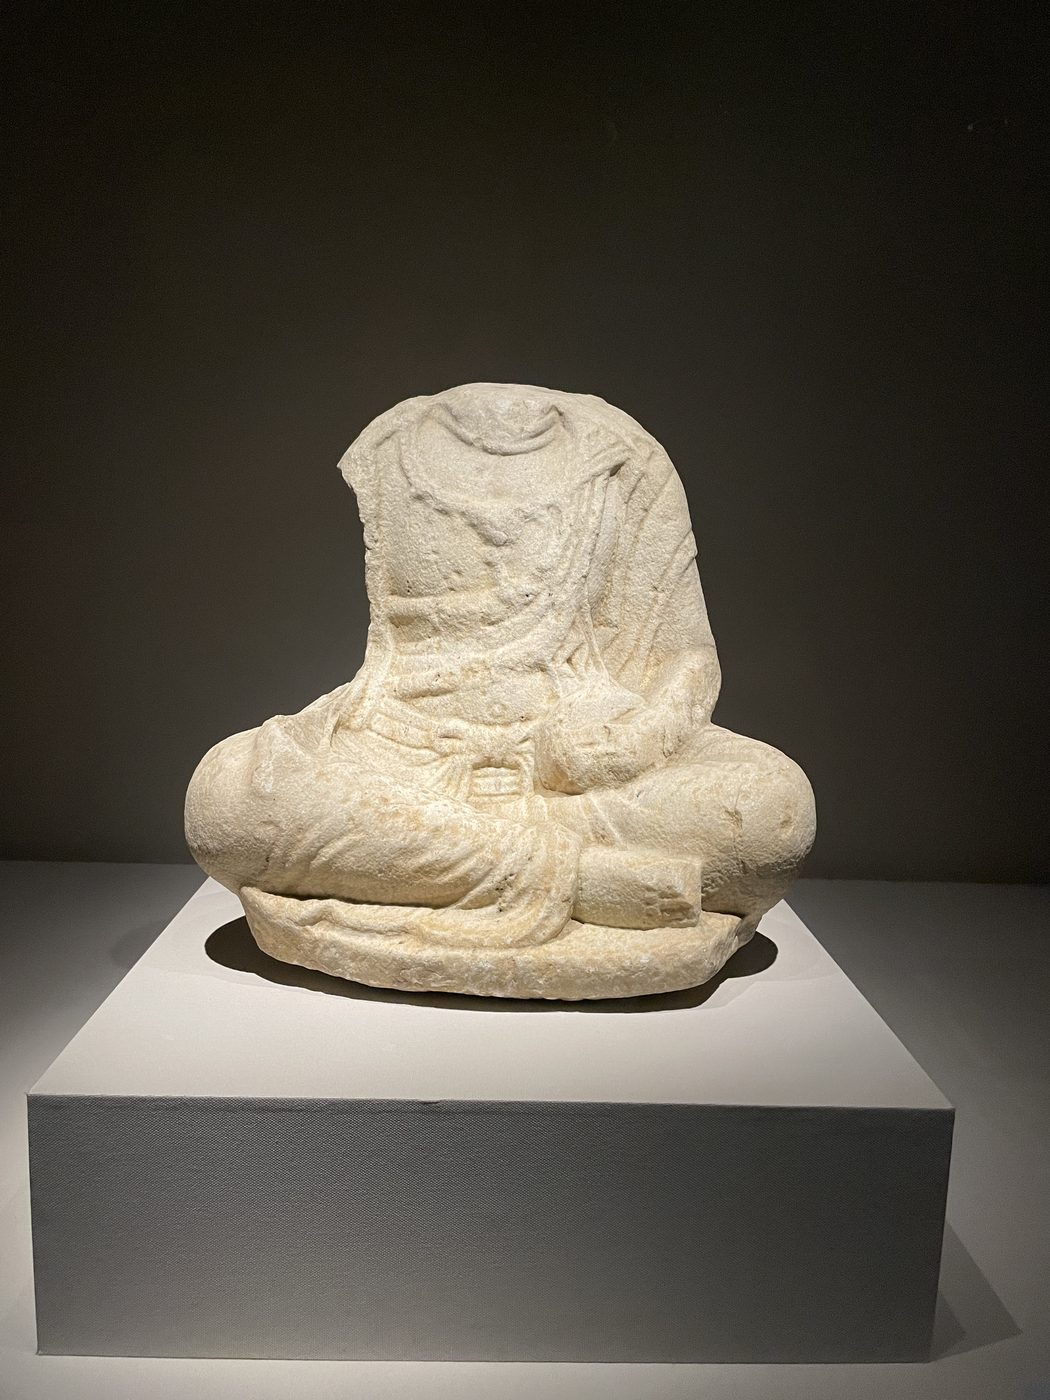
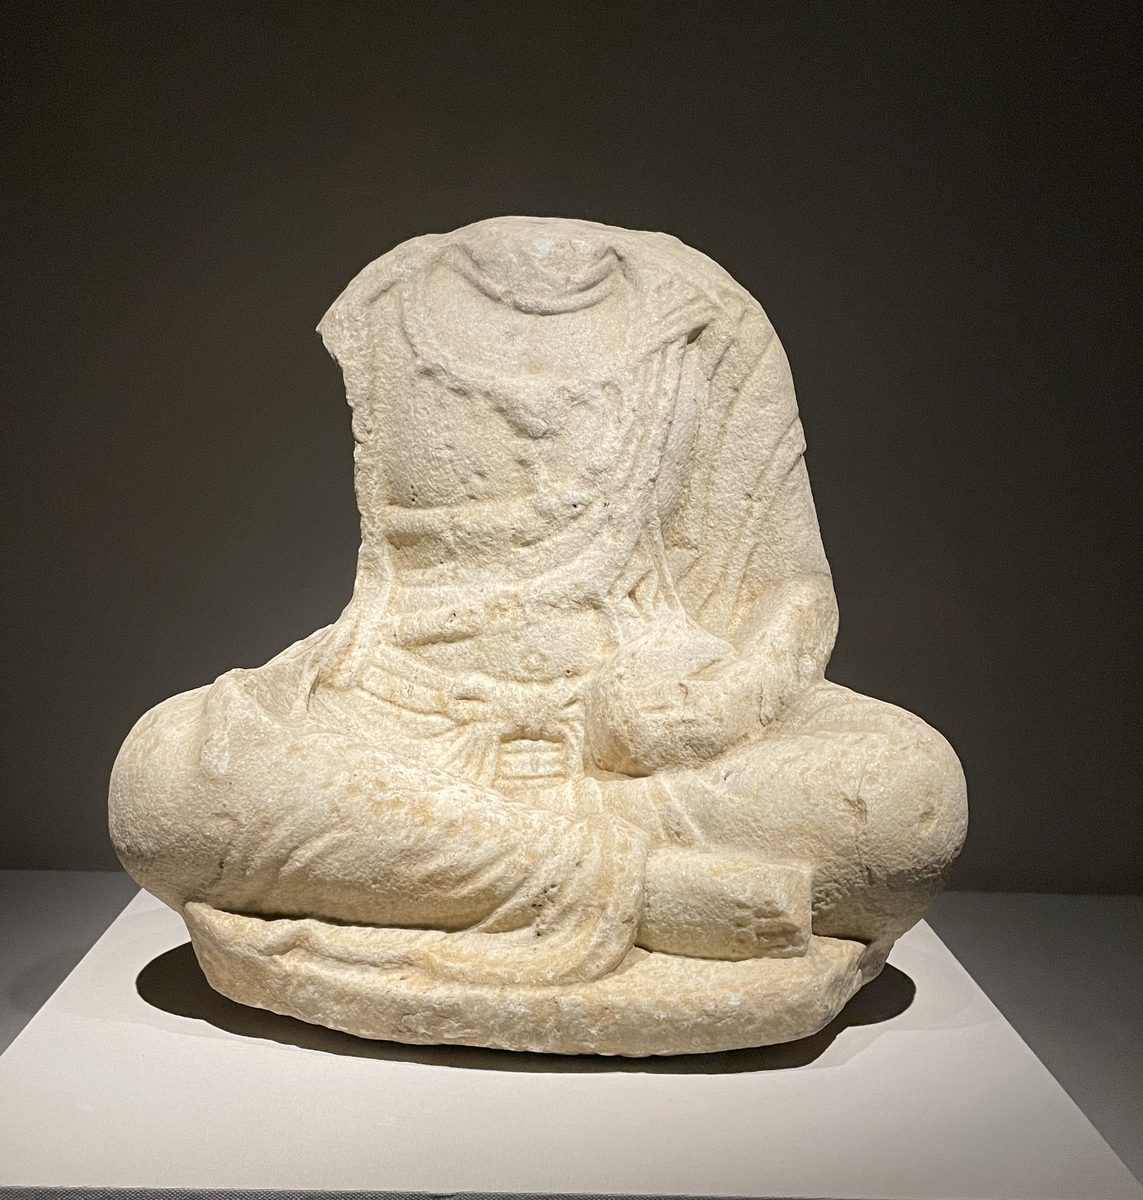
오죽헌 답사기: 세로 사진 크롭 개선, 보살상 도판을 기념관 장면으로 이동

diff --git a/ojukheon/index.html b/ojukheon/index.html
@@ -166,6 +166,15 @@
         </figure>
       </div>
       <p>
+        기념관을 나와 같은 경내의 강릉시립박물관으로 건너가면, 시간이 조선에서
+        훨씬 앞으로 거슬러 올라간다. 머리를 잃은 석조보살좌상 앞에서 걸음이
+        멈췄다. 머리가 없는데도 앉음새는 조금도 흐트러지지 않았다.
+      </p>
+      <figure>
+        <img src="assets/mine/mine-bosal.jpg" alt="강릉시립박물관의 머리 없는 석조보살좌상" loading="lazy">
+        <figcaption><span class="tag mine">직접 촬영</span>시립박물관의 석조보살좌상 (7월 16일 16:34)</figcaption>
+      </figure>
+      <p>
         1962년부터 매년 율곡을 추모하는 제례가 이곳에서 봉행된다. 문성사에는 율곡의
         영정이 모셔져 있다. 오죽헌은 생가이면서 동시에, 오백 년 가까이 이어진
         기억의 장치이기도 하다.
@@ -184,10 +193,6 @@
         『경포대부(鏡浦臺賦)』를 지었다고 전해지니, 같은 하루에 두 곳을 잇는 것은
         단순한 관광 동선이 아니라 한 사람의 소년기를 따라 걷는 길이기도 하다.
       </p>
-      <figure>
-        <img src="assets/mine/mine-bosal.jpg" alt="강릉시립박물관의 머리 없는 석조보살좌상" loading="lazy">
-        <figcaption><span class="tag mine">직접 촬영</span>시립박물관의 석조보살좌상 — 머리를 잃고도 앉음새가 흐트러지지 않았다 (7월 16일 16:34)</figcaption>
-      </figure>
       <ol class="course">
         <li><strong>오죽헌 · 강릉시립박물관</strong><span>관람 1시간 30분 안팎 — 본채·문성사·어제각·율곡기념관, 그리고 박물관의 석조보살좌상까지</span></li>
         <li><strong>경포호 산책로</strong><span>호수 북쪽 언덕 방향으로, 소나무 숲길</span></li>
